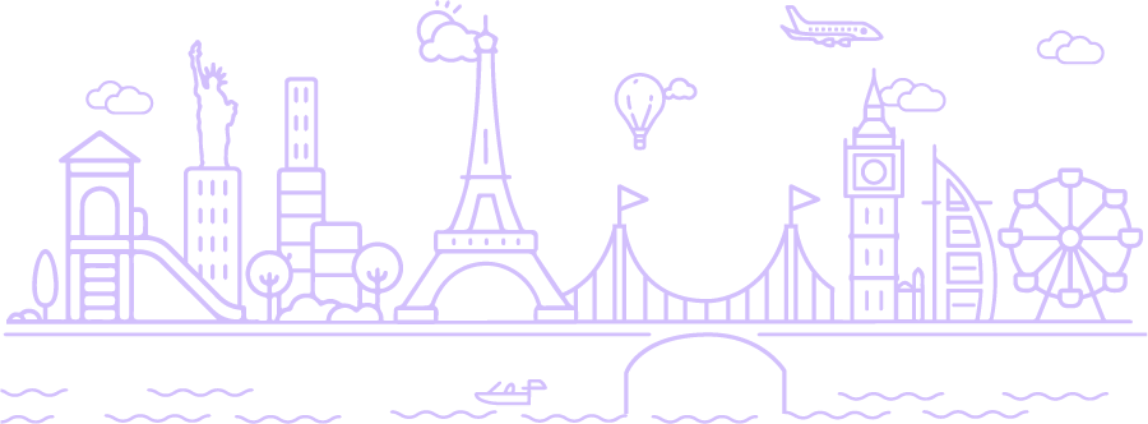
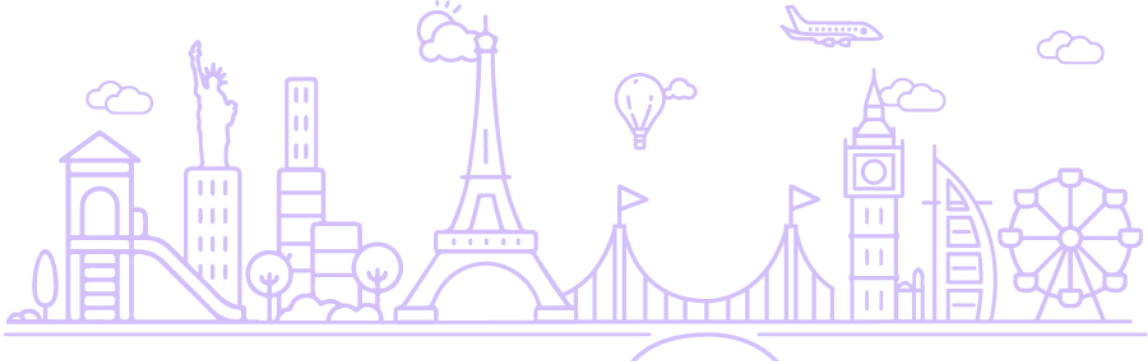
breifcase screen 1 complete

diff --git a/src/app/briefcase/briefcase.component.html b/src/app/briefcase/briefcase.component.html
@@ -8,7 +8,7 @@
             </ion-col>
             <ion-col size='8'>
                 <div class="middle_sec text-center text-white">
-                    <span>Safe to Travel</span>
+                    <span>Briefcase</span>
                 </div>
             </ion-col>
             <ion-col size='2'>
@@ -25,7 +25,7 @@
         <div class="doc_details">
             <div class="row">
                 <div class="col-6">
-                    <div class="doc_img card w-100" routerLink='/home/folder-detail'>
+                    <div class="doc_img card w-100">
                         <ion-img src="../../assets/images/doc2.png"></ion-img>
                         <p>Passports</p>
                     </div>
@@ -38,7 +38,7 @@
                 </div>
             </div>
         </div>
-        <div class="card folder_detail">
+        <div class="card folder_detail" routerLink='/home/folder-detail'>
             <ion-img src="../../assets/images/green.png"></ion-img>
             <p>USA - 2019</p>
         </div>

diff --git a/src/app/safe-travel/safe-travel.component.scss b/src/app/safe-travel/safe-travel.component.scss
@@ -40,7 +40,7 @@ ion-content {
         content              : "";
         background-image     : url('../../assets/images/illustration.png');
         background-repeat    : no-repeat;
-        background-position  : center 98%;
+        background-position: center bottom;
         background-size      : contain;
         background-attachment: fixed;
         padding-right        : 100%;
@@ -80,7 +80,7 @@ ion-content {
         border-radius   : 50%;
         background-color: #FA4D88;
         position        : fixed;
-        bottom          : 33px;
+        bottom          : 10px;
         right           : 10px;
         padding         : 16px;
 

diff --git a/src/app/briefcase/briefcase.component.scss b/src/app/briefcase/briefcase.component.scss
@@ -40,7 +40,7 @@ ion-content {
         content              : "";
         background-image     : url('../../assets/images/illustration.png');
         background-repeat    : no-repeat;
-        background-position  : center 98%;
+        background-position: center bottom;
         background-size      : contain;
         background-attachment: fixed;
         padding-right        : 100%;

diff --git a/src/app/document/document.component.scss b/src/app/document/document.component.scss
@@ -44,7 +44,7 @@ ion-content {
         content              : "";
         background-image     : url('../../assets/images/illustration.png');
         background-repeat    : no-repeat;
-        background-position  : center 98%;
+        background-position: center bottom;
         background-size      : contain;
         background-attachment: fixed;
         padding-right        : 100%;

diff --git a/src/app/folder-detail/folder-detail.component.scss b/src/app/folder-detail/folder-detail.component.scss
@@ -40,7 +40,7 @@ ion-content {
         content              : "";
         background-image     : url('../../assets/images/illustration.png');
         background-repeat    : no-repeat;
-        background-position  : center 98%;
+        background-position: center bottom;
         background-size      : contain;
         background-attachment: fixed;
         padding-right        : 100%;

diff --git a/src/app/payment/payment.component.scss b/src/app/payment/payment.component.scss
@@ -51,7 +51,7 @@ ion-content {
         content              : "";
         background-image     : url('../../assets/images/illustration.png');
         background-repeat    : no-repeat;
-        background-position  : center 98%;
+        background-position: center bottom;
         background-size      : contain;
         background-attachment: fixed;
         padding-right        : 100%;

diff --git a/src/app/plan-option-detail/plan-option-detail.component.scss b/src/app/plan-option-detail/plan-option-detail.component.scss
@@ -42,7 +42,7 @@ ion-content {
         content              : "";
         background-image     : url('../../assets/images/illustration.png');
         background-repeat    : no-repeat;
-        background-position  : center 98%;
+        background-position: center bottom;
         background-size      : contain;
         background-attachment: fixed;
         padding-right        : 100%;

diff --git a/src/app/profile/profile.component.scss b/src/app/profile/profile.component.scss
@@ -38,7 +38,7 @@ ion-content {
         content              : "";
         background-image     : url('../../assets/images/illustration.png');
         background-repeat    : no-repeat;
-        background-position  : center 98%;
+        background-position: center bottom;
         background-size      : contain;
         background-attachment: fixed;
         padding-right        : 100%;

diff --git a/src/app/safe-to-travel/safe-to-travel.component.scss b/src/app/safe-to-travel/safe-to-travel.component.scss
@@ -38,7 +38,7 @@ ion-content {
         content              : "";
         background-image     : url('../../assets/images/illustration.png');
         background-repeat    : no-repeat;
-        background-position  : center 98%;
+        background-position: center bottom;
         background-size      : contain;
         background-attachment: fixed;
         padding-right        : 100%;

diff --git a/src/app/safe-travel-detail/safe-travel-detail.component.scss b/src/app/safe-travel-detail/safe-travel-detail.component.scss
@@ -40,7 +40,7 @@ ion-content {
         content              : "";
         background-image     : url('../../assets/images/illustration.png');
         background-repeat    : no-repeat;
-        background-position  : center 98%;
+        background-position: center bottom;
         background-size      : contain;
         background-attachment: fixed;
         padding-right        : 100%;

diff --git a/src/app/all-plan/all-plan.component.scss b/src/app/all-plan/all-plan.component.scss
@@ -42,7 +42,7 @@ ion-content {
         content: "";
         background-image: url('../../assets/images/illustration.png');
         background-repeat: no-repeat;
-        background-position: center 93%;
+        background-position: center bottom;
         background-size: contain;
         background-attachment: fixed;
         padding-right: 100%;

diff --git a/src/app/benefits/benefits.component.scss b/src/app/benefits/benefits.component.scss
@@ -35,7 +35,7 @@ ion-content {
         content: "";
         background-image: url('../../assets/images/illustration.png');
         background-repeat: no-repeat;
-        background-position: center 93%;
+        background-position: center bottom;
         background-size: contain;
         background-attachment: fixed;
         padding-right: 100%;
